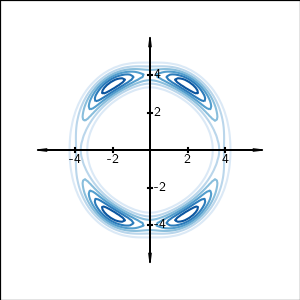
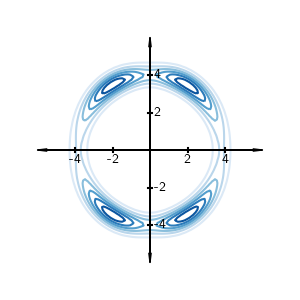
planar flow - improved visualization for the target density

Changed region(s): [[0.0, 0.0, 1.0, 1.0]]

diff --git a/docs/searchindex.js b/docs/searchindex.js
@@ -1,1 +1,1 @@
-Search.setIndex({docnames:["index","lemmas","normalizingFlows/changeofvariables","normalizingFlows/flowExamples/1Dexample","normalizingFlows/flowExamples/2DexampleList","normalizingFlows/flowExamples/2Dexamples/example1","normalizingFlows/flowExamples/flowExamples","normalizingFlows/flows_0","normalizingFlows/flows_1","normalizingFlows/flows_2_planar","normalizingFlows/kldivergence","normalizingFlows/math","usage/installation"],envversion:{"sphinx.domains.c":2,"sphinx.domains.changeset":1,"sphinx.domains.citation":1,"sphinx.domains.cpp":3,"sphinx.domains.index":1,"sphinx.domains.javascript":2,"sphinx.domains.math":2,"sphinx.domains.python":3,"sphinx.domains.rst":2,"sphinx.domains.std":2,sphinx:56},filenames:["index.rst","lemmas.rst","normalizingFlows/changeofvariables.rst","normalizingFlows/flowExamples/1Dexample.rst","normalizingFlows/flowExamples/2DexampleList.rst","normalizingFlows/flowExamples/2Dexamples/example1.rst","normalizingFlows/flowExamples/flowExamples.rst","normalizingFlows/flows_0.rst","normalizingFlows/flows_1.rst","normalizingFlows/flows_2_planar.rst","normalizingFlows/kldivergence.rst","normalizingFlows/math.rst","usage/installation.rst"],objects:{},objnames:{},objtypes:{},terms:{"0":[2,3,5,10],"1":[0,3,5,8,9,11],"1d":[6,11],"2":[0,5,8,9,11],"2d":[5,6,11],"3":[0,2,3,5],"3y":3,"4":[3,9],"5":5,"95":5,"case":[5,8,11],"function":[2,3,5,8,9,10],"import":[0,2,4,5,9],"new":[5,8],"while":5,A:[1,5,9],As:2,For:[3,5,8,10],If:[2,8],In:[5,8,10],It:8,Such:2,The:[3,5,9,10,11],These:10,_k:9,abl:[2,8],about:9,abov:[3,5,9],absolut:[3,5],after:[8,9],all:[2,3,8,9],allow:8,also:[2,3,5,10],amtrix:9,an:[2,5,9],ani:2,anoth:[8,9],appendix:9,appli:9,approxim:[0,10],aprticular:9,ar:[1,2,3,4,5,8,9,10],arriv:8,assum:[2,10],author:9,autoencod:10,b:[1,5,9],background:0,banana:[4,6],basic:[7,11],becaus:4,becom:[5,8],been:[4,5,9],begin:[2,5],below:[2,3,8,9],best:8,between:[0,5,8,10,11],bmatrix:[2,5],both:[2,8],calcualt:5,calcul:[2,3,5,9],call:[8,9],can:[2,3,5,7,8,9],cdot:[2,8,9],certain:9,chang:[8,11],chosen:9,circ:[8,9],circumst:[2,9,10],close:9,closer:8,color:5,combin:7,complex:7,compris:9,comput:[2,5],concat:7,concaten:8,concern:10,condit:9,consid:8,consist:5,consult:10,content:7,continu:10,contour:5,correspond:5,covari:10,creat:8,d:[4,10],d_:[8,10],defin:5,definit:[3,5],densiti:[2,3,5,8,10],depend:[2,9],deriv:[3,9],desir:8,det:[1,2,3,5,8,9,10],detail:[3,9],determin:[0,2,3,5,7,9],diag:10,diagon:[2,5,10],differ:5,difficult:2,dimens:10,dimension:10,discret:10,discuss:[5,9],dissimilar:10,distribut:[0,3,4,6,8,9,10,11],diverg:[0,8,11],document:12,don:5,done:5,dont:5,drawn:5,due:8,e:[3,9],each:[2,5],earlier:5,easili:2,elbo:0,element:2,els:3,elsewher:3,end:[2,5],entir:5,equat:[2,9],estiamt:5,everywher:3,exampl:[0,2,8,9,11],expect:5,explor:2,express:8,f:[2,3,5,9],f_0:2,f_1:[2,8,9],f_2:2,f_:[2,8,9],f_i:2,favour:8,field:0,fig:5,figur:2,find:[8,9],first:[5,7,8],flow:[0,2,5,11],fnalli:9,follow:[2,3,5,10],form:[2,5,8,9],formula:[5,8,10,11],frac:[2,3,5,10],from:[3,5,7,8],furthermor:2,gaussian:[4,6],ge:9,gener:[2,7,8],get:8,given:[2,3,5,8,9,10],go:[3,5],h:9,ha:[5,8,9],had:5,happen:8,hat:9,have:[2,3,4,5,10],henc:[2,5],here:[4,9],how:[5,7],howev:9,i:[1,2,3,9,10],idea:2,includ:10,independ:[1,3,5],index:0,indic:[3,5],infer:[9,10],inform:[2,10],informaiton:5,infti:10,instal:0,instead:[8,9,10],int_:10,intuit:9,invers:[3,5],invert:[2,9],its:5,j:2,jacobian:[2,3,5],just:[5,9],k:[0,8,9,11],kl:[8,10],know:[2,5,8],knowledg:5,kullback:10,l:[0,11],latent:8,later:5,ldot:[2,10],le:2,left:[2,3,5,8,9,10],leibler:10,lemma:[0,9],let:[2,3,5,7,10],like:9,likelihood:9,literatur:10,ln:10,log:[8,9],look:[2,3,5],lost:10,lower:[2,5],m:9,make:[2,8],mani:10,manner:8,map:[0,3,5,8,11],master:4,mathbb:[2,3,5,9,10],mathbf:[1,2,3,5,8,9,10],mathcal:[2,5,10],mathemat:[0,9],mathrm:[9,10],matric:10,matrix:[0,2,3,5,9],mean:[0,2,8],measur:10,mention:3,minim:8,modif:9,modifi:9,modul:0,more:10,most:2,mu_0:10,mu_1:10,mu_:10,mu_i:10,multipl:8,multivari:10,n:[2,4,5,9,10],n_0:10,n_1:10,nabla_:[2,3,5,8,9],need:3,next:5,non:10,nonlinear:9,normal:[0,2,5,9,10,11],note:8,notic:[2,5],now:[2,3,5,7],numer:8,o:2,often:10,old:5,onc:4,one:[5,8,9],onli:[2,3],our:8,ourselv:10,out:2,over:[2,5],p:[1,8,10],p_:[2,5,8],page:0,paper:9,paramet:8,parametr:8,part:5,partial:[2,3,5],pdf:[2,5,8],peak:5,place:10,planar:[7,11],plane:5,pleas:10,plot:5,point:5,possibl:[2,3,5,9],practic:2,present:9,previou:7,probabl:[2,5,8,10],prod_:[2,8],product:[2,5,8],provid:[9,10],q:[8,10],q_0:9,q_:[2,3,5,8],q_k:9,q_y:[2,3],q_z:2,question:2,r:[2,3,5,9,10],random:[0,11],rang:3,rather:[2,9],real:10,refer:3,regard:[2,10],relationship:2,relev:10,reli:9,rememb:5,repres:[2,3,5,8],requir:2,resembl:2,respect:3,result:4,right:[2,3,5,8,9,10],rightarrow:2,s:[2,3],same:10,sampl:5,satsifi:9,scale:2,search:0,section:[2,7,9],see:[5,8,9],seri:8,set:8,shall:[2,3,4,5,7,8,10],should:[3,5,8],shown:[2,3,5,8,9],side:8,sigma:5,sigma_0:10,sigma_1:10,sigma_:10,sigma_i:10,significantli:2,sim:5,similarli:2,simpl:[2,3,5,7,12],simpli:[2,9],sinc:[2,3,5],singl:3,singular:10,slight:9,slightli:9,solut:9,some:[2,4,12],someth:2,space:[2,5,8,10],span:[2,10],special:11,specif:[5,9,10],stabil:8,standard:[5,10],studi:4,subsect:2,subsequ:[2,4],substitut:8,sum:8,sum_:[9,10],support:5,suppos:[2,10],sure:2,t:[1,2,5,9,10],take:8,tanh:9,term:[2,8],th:2,than:[2,9],thankfulli:5,theorem:0,theta:8,thi:[2,3,5,8,9,10,12],thing:9,though:8,thu:[3,5],time:5,tr:10,transform:[3,4,5,8,9],transpos:2,triangualr:2,triangular:5,trivial:[3,4,8],turn:2,two:[0,5,7,10,11],typic:8,u:[1,9],under:[2,9,10],understand:2,uniform:[3,5],uniformli:3,updat:5,upon:[2,9],us:[2,5,7,8,9,10],v:[1,9],valu:[3,5],valuabl:9,variabl:[0,3,8,11],variat:[9,10],vdot:2,vector:[2,9],veri:[2,3,5],version:9,visual:3,w:9,w_k:9,wai:[5,8],want:8,we:[2,3,4,5,7,8,10],well:2,what:[2,8,9],when:[5,8,10],where:[2,9,10],wherein:9,wherin:8,which:8,wish:10,written:[2,8],x:9,y:[2,3,5,8,10],y_0:[2,5],y_1:[2,5],y_2:2,y_:2,y_i:2,yet:5,you:[8,10],z:[2,3,5,8,9],z_0:[2,5,8],z_1:[2,5,8],z_2:[2,8],z_:[2,8,9],z_k:[8,9]},titles:["Welcome to normalizingFlows\u2019s documentation!","Important Theorems and Lemmas","Mapping distributions between two random variables","1D Example","2D examples","Gaussian to banana distributions","Flow Examples","Normalizing Flows","Flow Basics","Planar Flow","K-L Divergence","Mathematical background","installation"],titleterms:{"1":[1,2,10],"1d":3,"2":[1,10],"2d":4,"3":1,"case":[2,10],"import":1,The:2,approxim:1,background:11,banana:5,basic:8,between:2,chang:2,concat:8,content:[0,4,6,11],determin:1,distribut:[2,5],diverg:[1,10],document:0,elbo:1,exampl:[3,4,6],field:1,flow:[6,7,8,9],formula:2,gaussian:5,indic:0,instal:12,k:[1,10],l:[1,10],lemma:1,map:2,mathemat:11,matrix:1,mean:1,normal:7,normalizingflow:0,planar:9,random:2,result:5,s:0,special:[2,10],tabl:0,theorem:1,two:2,type:7,variabl:2,welcom:0}})
+Search.setIndex({docnames:["index","lemmas","normalizingFlows/changeofvariables","normalizingFlows/flowExamples/1Dexample","normalizingFlows/flowExamples/2DexampleList","normalizingFlows/flowExamples/2Dexamples/example1","normalizingFlows/flowExamples/2Dexamples/example2","normalizingFlows/flowExamples/flowExamples","normalizingFlows/flows_0","normalizingFlows/flows_1","normalizingFlows/flows_2_planar","normalizingFlows/kldivergence","normalizingFlows/math","usage/installation"],envversion:{"sphinx.domains.c":2,"sphinx.domains.changeset":1,"sphinx.domains.citation":1,"sphinx.domains.cpp":3,"sphinx.domains.index":1,"sphinx.domains.javascript":2,"sphinx.domains.math":2,"sphinx.domains.python":3,"sphinx.domains.rst":2,"sphinx.domains.std":2,sphinx:56},filenames:["index.rst","lemmas.rst","normalizingFlows/changeofvariables.rst","normalizingFlows/flowExamples/1Dexample.rst","normalizingFlows/flowExamples/2DexampleList.rst","normalizingFlows/flowExamples/2Dexamples/example1.rst","normalizingFlows/flowExamples/2Dexamples/example2.rst","normalizingFlows/flowExamples/flowExamples.rst","normalizingFlows/flows_0.rst","normalizingFlows/flows_1.rst","normalizingFlows/flows_2_planar.rst","normalizingFlows/kldivergence.rst","normalizingFlows/math.rst","usage/installation.rst"],objects:{},objnames:{},objtypes:{},terms:{"0":[2,3,5,11],"1":[0,3,5,9,10,12],"1d":[7,12],"2":[0,5,9,10,12],"2d":[5,7,12],"3":[0,2,3,5],"3y":3,"4":[3,6,10],"5":5,"95":5,"case":[5,6,9,12],"function":[2,3,5,9,10,11],"import":[0,2,4,5,10],"new":[5,9],"try":6,"while":5,A:[1,5,6,10],As:2,For:[3,5,9,11],If:[2,9],In:[5,6,9,11],It:9,Such:2,The:[3,5,10,11,12],These:11,_k:10,abl:[2,9],about:10,abov:[3,5,10],absolut:[3,5],after:[9,10],all:[2,3,9,10],allow:9,also:[2,3,5,11],amtrix:10,an:[2,5,10],ani:2,anoth:[9,10],appendix:10,appli:10,approxim:[0,6,11],aprticular:10,ar:[1,2,3,4,5,6,9,10,11],arriv:9,assum:[2,11],author:10,autoencod:11,b:[1,5,10],background:0,banana:[4,7],basic:[8,12],becaus:4,becom:[5,9],been:[4,5,6,10],begin:[2,5],below:[2,3,9,10],best:9,between:[0,5,9,11,12],bmatrix:[2,5],both:[2,9],calcualt:5,calcul:[2,3,5,10],call:[9,10],can:[2,3,5,8,9,10],cdot:[2,9,10],certain:10,chang:[9,12],chosen:10,circ:[9,10],circumst:[2,10,11],close:10,closer:9,color:5,combin:8,complex:[6,8],compris:10,comput:[2,5],concat:8,concaten:9,concern:11,condit:10,consid:9,consist:5,consult:11,content:8,continu:11,contour:[5,6],correspond:5,covari:11,creat:9,d:[4,11],d_:[9,11],defin:[5,6],definit:[3,5],densiti:[2,3,5,6,9,11],depend:[2,10],deriv:[3,10],desir:9,det:[1,2,3,5,9,10,11],detail:[3,10],determin:[0,2,3,5,8,10],diag:11,diagon:[2,5,11],differ:5,difficult:2,dimens:11,dimension:11,discret:11,discuss:[5,10],dissimilar:11,distribut:[0,3,4,6,7,9,10,11,12],diverg:[0,9,12],document:13,don:5,done:5,dont:5,drawn:5,due:9,e:[3,10],each:[2,5],earlier:5,easili:2,elbo:0,element:2,els:3,elsewher:3,end:[2,5],entir:5,equat:[2,10],estiamt:5,everywher:3,exampl:[0,2,9,10,12],expect:5,explor:2,express:9,f:[2,3,5,10],f_0:2,f_1:[2,9,10],f_2:2,f_:[2,9,10],f_i:2,fairli:6,favour:9,field:0,fig:[5,6],figur:2,find:[9,10],first:[5,8,9],flow:[0,2,4,5,12],fnalli:10,follow:[2,3,5,11],form:[2,5,9,10],formula:[5,9,11,12],frac:[2,3,5,11],from:[3,5,8,9],furthermor:2,gaussian:[4,7],ge:10,gener:[2,8,9],get:9,given:[2,3,5,9,10,11],go:[3,5],h:10,ha:[5,6,9,10],had:5,happen:9,hat:10,have:[2,3,4,5,11],henc:[2,5],here:[4,10],how:[5,8],howev:10,i:[1,2,3,10,11],idea:2,includ:11,independ:[1,3,5],index:0,indic:[3,5],infer:[10,11],inform:[2,11],informaiton:5,infti:11,instal:0,instead:[9,10,11],int_:11,intuit:10,invers:[3,5],invert:[2,10],its:5,j:2,jacobian:[2,3,5],just:[5,10],k:[0,9,10,12],kl:[9,11],know:[2,5,9],knowledg:5,kullback:11,l:[0,12],latent:9,later:5,ldot:[2,11],le:2,left:[2,3,5,9,10,11],leibler:11,lemma:[0,10],let:[2,3,5,8,11],like:10,likelihood:10,literatur:11,ln:11,log:[9,10],look:[2,3,5],lost:11,lower:[2,5],m:10,make:[2,9],mani:11,manner:9,map:[0,3,5,9,12],master:4,mathbb:[2,3,5,10,11],mathbf:[1,2,3,5,9,10,11],mathcal:[2,5,11],mathemat:[0,10],mathrm:[10,11],matric:11,matrix:[0,2,3,5,10],mean:[0,2,9],measur:11,mention:3,minim:9,modif:10,modifi:10,modul:0,more:11,most:2,mu_0:11,mu_1:11,mu_:11,mu_i:11,multipl:9,multivari:11,n:[2,4,5,10,11],n_0:11,n_1:11,nabla_:[2,3,5,9,10],need:3,next:5,non:11,nonlinear:10,normal:[0,2,5,10,11,12],note:9,notic:[2,5],now:[2,3,5,8],numer:9,o:2,often:11,old:5,onc:4,one:[5,9,10],onli:[2,3],our:9,ourselv:11,out:2,over:[2,5],p:[1,9,11],p_:[2,5,9],page:0,paper:10,paramet:9,parametr:9,part:5,partial:[2,3,5],pdf:[2,5,9],peak:5,place:11,planar:[4,7,8,12],plane:5,pleas:11,plot:[5,6],point:5,possibl:[2,3,5,10],practic:2,present:10,previou:8,probabl:[2,5,9,11],prod_:[2,9],product:[2,5,9],provid:[10,11],q:[9,11],q_0:10,q_:[2,3,5,9],q_k:10,q_y:[2,3],q_z:2,question:2,r:[2,3,5,10,11],random:[0,12],rang:3,rather:[2,10],real:11,refer:3,regard:[2,11],relationship:2,relev:11,reli:10,rememb:5,repres:[2,3,5,9],requir:2,resembl:2,respect:3,result:4,right:[2,3,5,9,10,11],rightarrow:2,s:[2,3],same:11,sampl:5,satsifi:10,scale:2,search:0,section:[2,6,8,10],see:[5,9,10],seri:9,set:9,shall:[2,3,4,5,8,9,11],should:[3,5,9],shown:[2,3,5,6,9,10],side:9,sigma:5,sigma_0:11,sigma_1:11,sigma_:11,sigma_i:11,significantli:2,sim:5,similarli:2,simpl:[2,3,5,8,13],simpli:[2,10],sinc:[2,3,5],singl:3,singular:11,slight:10,slightli:10,solut:10,some:[2,4,13],someth:2,space:[2,5,9,11],span:[2,11],special:12,specif:[5,10,11],stabil:9,standard:[5,11],studi:4,subsect:2,subsequ:[2,4],substitut:9,sum:9,sum_:[10,11],support:5,suppos:[2,11],sure:2,t:[1,2,5,10,11],take:9,tanh:10,target:6,term:[2,9],th:2,than:[2,10],thankfulli:5,theorem:0,theta:9,thi:[2,3,5,6,9,10,11,13],thing:10,though:9,thu:[3,5],time:5,tr:11,transform:[3,4,5,9,10],transpos:2,triangualr:2,triangular:5,trivial:[3,4,9],turn:2,two:[0,5,8,11,12],typic:9,u:[1,10],under:[2,10,11],understand:2,uniform:[3,5],uniformli:3,updat:5,upon:[2,10],us:[2,5,8,9,10,11],v:[1,10],valu:[3,5],valuabl:10,variabl:[0,3,9,12],variat:[10,11],vdot:2,vector:[2,10],veri:[2,3,5],version:10,visual:3,w:10,w_k:10,wai:[5,9],want:9,we:[2,3,4,5,6,8,9,11],well:2,what:[2,9,10],when:[5,9,11],where:[2,10,11],wherein:10,wherin:9,which:9,wish:11,written:[2,9],x:10,y:[2,3,5,9,11],y_0:[2,5],y_1:[2,5],y_2:2,y_:2,y_i:2,yet:5,you:[9,11],z:[2,3,5,9,10],z_0:[2,5,9],z_1:[2,5,9],z_2:[2,9],z_:[2,9,10],z_k:[9,10]},titles:["Welcome to normalizingFlows\u2019s documentation!","Important Theorems and Lemmas","Mapping distributions between two random variables","1D Example","2D examples","Gaussian to banana distributions","2D Planar Flow Example","Flow Examples","Normalizing Flows","Flow Basics","Planar Flow","K-L Divergence","Mathematical background","installation"],titleterms:{"1":[1,2,11],"1d":3,"2":[1,11],"2d":[4,6],"3":1,"case":[2,11],"import":1,The:2,approxim:1,background:12,banana:5,basic:9,between:2,chang:2,concat:9,content:[0,4,7,12],determin:1,distribut:[2,5],diverg:[1,11],document:0,elbo:1,exampl:[3,4,6,7],field:1,flow:[6,7,8,9,10],formula:2,gaussian:5,indic:0,instal:13,k:[1,11],l:[1,11],lemma:1,map:2,mathemat:12,matrix:1,mean:1,normal:8,normalizingflow:0,planar:[6,10],random:2,result:5,s:0,special:[2,11],tabl:0,theorem:1,two:2,type:8,variabl:2,welcom:0}})

diff --git a/docs/normalizingFlows/flowExamples/2Dexamples/example2.html b/docs/normalizingFlows/flowExamples/2Dexamples/example2.html
@@ -1,0 +1,240 @@
+
+
+<!DOCTYPE html>
+<html class="writer-html5" lang="en" >
+<head>
+  <meta charset="utf-8" />
+  
+  <meta name="viewport" content="width=device-width, initial-scale=1.0" />
+  
+  <title>2D Planar Flow Example &mdash; normalizingFlows 0.1.0 documentation</title>
+  
+
+  
+  <link rel="stylesheet" href="../../../_static/css/theme.css" type="text/css" />
+  <link rel="stylesheet" href="../../../_static/pygments.css" type="text/css" />
+  <link rel="stylesheet" href="../../../_static/pygments.css" type="text/css" />
+  <link rel="stylesheet" href="../../../_static/css/theme.css" type="text/css" />
+
+  
+  
+
+  
+  
+
+  
+
+  
+  <!--[if lt IE 9]>
+    <script src="../../../_static/js/html5shiv.min.js"></script>
+  <![endif]-->
+  
+    
+      <script type="text/javascript" id="documentation_options" data-url_root="../../../" src="../../../_static/documentation_options.js"></script>
+        <script data-url_root="../../../" id="documentation_options" src="../../../_static/documentation_options.js"></script>
+        <script src="../../../_static/jquery.js"></script>
+        <script src="../../../_static/underscore.js"></script>
+        <script src="../../../_static/doctools.js"></script>
+    
+    <script type="text/javascript" src="../../../_static/js/theme.js"></script>
+
+    
+    <link rel="index" title="Index" href="../../../genindex.html" />
+    <link rel="search" title="Search" href="../../../search.html" />
+    <link rel="next" title="Important Theorems and Lemmas" href="../../../lemmas.html" />
+    <link rel="prev" title="Gaussian to banana distributions" href="example1.html" /> 
+</head>
+
+<body class="wy-body-for-nav">
+
+   
+  <div class="wy-grid-for-nav">
+    
+    <nav data-toggle="wy-nav-shift" class="wy-nav-side">
+      <div class="wy-side-scroll">
+        <div class="wy-side-nav-search" >
+          
+
+          
+            <a href="../../../index.html" class="icon icon-home"> normalizingFlows
+          
+
+          
+          </a>
+
+          
+            
+            
+          
+
+          
+<div role="search">
+  <form id="rtd-search-form" class="wy-form" action="../../../search.html" method="get">
+    <input type="text" name="q" placeholder="Search docs" />
+    <input type="hidden" name="check_keywords" value="yes" />
+    <input type="hidden" name="area" value="default" />
+  </form>
+</div>
+
+          
+        </div>
+
+        
+        <div class="wy-menu wy-menu-vertical" data-spy="affix" role="navigation" aria-label="main navigation">
+          
+            
+            
+              
+            
+            
+              <p class="caption"><span class="caption-text">Contents:</span></p>
+<ul class="current">
+<li class="toctree-l1"><a class="reference internal" href="../../../usage/installation.html">installation</a></li>
+<li class="toctree-l1 current"><a class="reference internal" href="../../math.html">Mathematical background</a><ul class="current">
+<li class="toctree-l2"><a class="reference internal" href="../../kldivergence.html">K-L Divergence</a></li>
+<li class="toctree-l2"><a class="reference internal" href="../../changeofvariables.html">Mapping distributions between two random variables</a></li>
+<li class="toctree-l2"><a class="reference internal" href="../../flows_0.html">Normalizing Flows</a></li>
+<li class="toctree-l2 current"><a class="reference internal" href="../flowExamples.html">Flow Examples</a><ul class="current">
+<li class="toctree-l3"><a class="reference internal" href="../1Dexample.html">1D Example</a></li>
+<li class="toctree-l3 current"><a class="reference internal" href="../2DexampleList.html">2D examples</a><ul class="current">
+<li class="toctree-l4"><a class="reference internal" href="example1.html">Gaussian to banana distributions</a></li>
+<li class="toctree-l4 current"><a class="current reference internal" href="#">2D Planar Flow Example</a></li>
+</ul>
+</li>
+</ul>
+</li>
+</ul>
+</li>
+<li class="toctree-l1"><a class="reference internal" href="../../../lemmas.html">Important Theorems and Lemmas</a></li>
+</ul>
+
+            
+          
+        </div>
+        
+      </div>
+    </nav>
+
+    <section data-toggle="wy-nav-shift" class="wy-nav-content-wrap">
+
+      
+      <nav class="wy-nav-top" aria-label="top navigation">
+        
+          <i data-toggle="wy-nav-top" class="fa fa-bars"></i>
+          <a href="../../../index.html">normalizingFlows</a>
+        
+      </nav>
+
+
+      <div class="wy-nav-content">
+        
+        <div class="rst-content">
+        
+          
+
+
+
+
+
+
+
+
+
+
+
+
+
+
+
+
+
+<div role="navigation" aria-label="breadcrumbs navigation">
+
+  <ul class="wy-breadcrumbs">
+    
+      <li><a href="../../../index.html" class="icon icon-home"></a> &raquo;</li>
+        
+          <li><a href="../../math.html">Mathematical background</a> &raquo;</li>
+        
+          <li><a href="../flowExamples.html">Flow Examples</a> &raquo;</li>
+        
+          <li><a href="../2DexampleList.html">2D examples</a> &raquo;</li>
+        
+      <li>2D Planar Flow Example</li>
+    
+    
+      <li class="wy-breadcrumbs-aside">
+        
+          
+            <a href="../../../_sources/normalizingFlows/flowExamples/2Dexamples/example2.rst.txt" rel="nofollow"> View page source</a>
+          
+        
+      </li>
+    
+  </ul>
+
+  
+  <hr/>
+</div>
+          <div role="main" class="document" itemscope="itemscope" itemtype="http://schema.org/Article">
+           <div itemprop="articleBody">
+            
+  <div class="section" id="d-planar-flow-example">
+<h1>2D Planar Flow Example<a class="headerlink" href="#d-planar-flow-example" title="Permalink to this headline">¶</a></h1>
+<p>In this Section, the target distribution that we are trying to approximate will be defined.</p>
+<div class="figure align-center" id="target">
+<img alt="https://raw.githubusercontent.com/sankhaMukherjee/normalizingFlows/master/results/img/target.png" src="https://raw.githubusercontent.com/sankhaMukherjee/normalizingFlows/master/results/img/target.png" />
+<p class="caption"><span class="caption-number">Fig. 4 </span><span class="caption-text">A contour plot of the target distribution has been plotted. This is a 2D distribution.</span><a class="headerlink" href="#target" title="Permalink to this image">¶</a></p>
+</div>
+<p>In this case, the target density will be a fairly complex density. This is shown in <a class="reference internal" href="#target"><span class="std std-numref">Fig. 4</span></a>.</p>
+</div>
+
+
+           </div>
+           
+          </div>
+          <footer>
+    <div class="rst-footer-buttons" role="navigation" aria-label="footer navigation">
+        <a href="../../../lemmas.html" class="btn btn-neutral float-right" title="Important Theorems and Lemmas" accesskey="n" rel="next">Next <span class="fa fa-arrow-circle-right" aria-hidden="true"></span></a>
+        <a href="example1.html" class="btn btn-neutral float-left" title="Gaussian to banana distributions" accesskey="p" rel="prev"><span class="fa fa-arrow-circle-left" aria-hidden="true"></span> Previous</a>
+    </div>
+
+  <hr/>
+
+  <div role="contentinfo">
+    <p>
+        &#169; Copyright 2021, Sankha Subhra Mukherjee.
+
+    </p>
+  </div>
+    
+    
+    
+    Built with <a href="https://www.sphinx-doc.org/">Sphinx</a> using a
+    
+    <a href="https://github.com/readthedocs/sphinx_rtd_theme">theme</a>
+    
+    provided by <a href="https://readthedocs.org">Read the Docs</a>. 
+
+</footer>
+        </div>
+      </div>
+
+    </section>
+
+  </div>
+  
+
+  <script type="text/javascript">
+      jQuery(function () {
+          SphinxRtdTheme.Navigation.enable(true);
+      });
+  </script>
+
+  
+  
+    
+   
+
+</body>
+</html>

diff --git a/docs/normalizingFlows/flowExamples/2Dexamples/example1.html b/docs/normalizingFlows/flowExamples/2Dexamples/example1.html
@@ -42,7 +42,7 @@
     
     <link rel="index" title="Index" href="../../../genindex.html" />
     <link rel="search" title="Search" href="../../../search.html" />
-    <link rel="next" title="Important Theorems and Lemmas" href="../../../lemmas.html" />
+    <link rel="next" title="2D Planar Flow Example" href="example2.html" />
     <link rel="prev" title="2D examples" href="../2DexampleList.html" /> 
 </head>
 
@@ -99,6 +99,7 @@
 <li class="toctree-l3"><a class="reference internal" href="../1Dexample.html">1D Example</a></li>
 <li class="toctree-l3 current"><a class="reference internal" href="../2DexampleList.html">2D examples</a><ul class="current">
 <li class="toctree-l4 current"><a class="current reference internal" href="#">Gaussian to banana distributions</a></li>
+<li class="toctree-l4"><a class="reference internal" href="example2.html">2D Planar Flow Example</a></li>
 </ul>
 </li>
 </ul>
@@ -306,7 +307,7 @@ of the point. Notice that it peaks at (0,-1), consistent with the mapping that i
           </div>
           <footer>
     <div class="rst-footer-buttons" role="navigation" aria-label="footer navigation">
-        <a href="../../../lemmas.html" class="btn btn-neutral float-right" title="Important Theorems and Lemmas" accesskey="n" rel="next">Next <span class="fa fa-arrow-circle-right" aria-hidden="true"></span></a>
+        <a href="example2.html" class="btn btn-neutral float-right" title="2D Planar Flow Example" accesskey="n" rel="next">Next <span class="fa fa-arrow-circle-right" aria-hidden="true"></span></a>
         <a href="../2DexampleList.html" class="btn btn-neutral float-left" title="2D examples" accesskey="p" rel="prev"><span class="fa fa-arrow-circle-left" aria-hidden="true"></span> Previous</a>
     </div>
 

diff --git a/docs/lemmas.html b/docs/lemmas.html
@@ -42,7 +42,7 @@
     
     <link rel="index" title="Index" href="genindex.html" />
     <link rel="search" title="Search" href="search.html" />
-    <link rel="prev" title="Gaussian to banana distributions" href="normalizingFlows/flowExamples/2Dexamples/example1.html" /> 
+    <link rel="prev" title="2D Planar Flow Example" href="normalizingFlows/flowExamples/2Dexamples/example2.html" /> 
 </head>
 
 <body class="wy-body-for-nav">
@@ -189,7 +189,7 @@
           </div>
           <footer>
     <div class="rst-footer-buttons" role="navigation" aria-label="footer navigation">
-        <a href="normalizingFlows/flowExamples/2Dexamples/example1.html" class="btn btn-neutral float-left" title="Gaussian to banana distributions" accesskey="p" rel="prev"><span class="fa fa-arrow-circle-left" aria-hidden="true"></span> Previous</a>
+        <a href="normalizingFlows/flowExamples/2Dexamples/example2.html" class="btn btn-neutral float-left" title="2D Planar Flow Example" accesskey="p" rel="prev"><span class="fa fa-arrow-circle-left" aria-hidden="true"></span> Previous</a>
     </div>
 
   <hr/>

diff --git a/docs/normalizingFlows/flowExamples/2DexampleList.html b/docs/normalizingFlows/flowExamples/2DexampleList.html
@@ -99,6 +99,7 @@
 <li class="toctree-l3"><a class="reference internal" href="1Dexample.html">1D Example</a></li>
 <li class="toctree-l3 current"><a class="current reference internal" href="#">2D examples</a><ul>
 <li class="toctree-l4"><a class="reference internal" href="2Dexamples/example1.html">Gaussian to banana distributions</a></li>
+<li class="toctree-l4"><a class="reference internal" href="2Dexamples/example2.html">2D Planar Flow Example</a></li>
 </ul>
 </li>
 </ul>
@@ -188,6 +189,7 @@ have been mastered, it is then subsequently trivial to master <span class="math 
 <li class="toctree-l2"><a class="reference internal" href="2Dexamples/example1.html#results">Results</a></li>
 </ul>
 </li>
+<li class="toctree-l1"><a class="reference internal" href="2Dexamples/example2.html">2D Planar Flow Example</a></li>
 </ul>
 </div>
 </div>

diff --git a/docs/normalizingFlows/flowExamples/flowExamples.html b/docs/normalizingFlows/flowExamples/flowExamples.html
@@ -179,6 +179,7 @@
 <li class="toctree-l1"><a class="reference internal" href="1Dexample.html">1D Example</a></li>
 <li class="toctree-l1"><a class="reference internal" href="2DexampleList.html">2D examples</a><ul>
 <li class="toctree-l2"><a class="reference internal" href="2Dexamples/example1.html">Gaussian to banana distributions</a></li>
+<li class="toctree-l2"><a class="reference internal" href="2Dexamples/example2.html">2D Planar Flow Example</a></li>
 </ul>
 </li>
 </ul>

diff --git a/src/examples/planarFlows/targetPlanar2D_001.py b/src/examples/planarFlows/targetPlanar2D_001.py
@@ -66,7 +66,7 @@ def main():
     
     for ax in axs:
         for s in ['right', 'top', 'left', 'bottom']:
-            ax.spines[s].set_visible(True)
+            ax.spines[s].set_visible(False)
         ax.set_xticks([])
         ax.set_yticks([])
         ax.set_xlim([-8, 8])

diff --git a/myDocs/source/normalizingFlows/flowExamples/2DexampleList.rst b/myDocs/source/normalizingFlows/flowExamples/2DexampleList.rst
@@ -9,3 +9,4 @@ have been mastered, it is then subsequently trivial to master :math:`n`-D transf
    :caption: Contents:
 
    2Dexamples/example1
+   2Dexamples/example2
